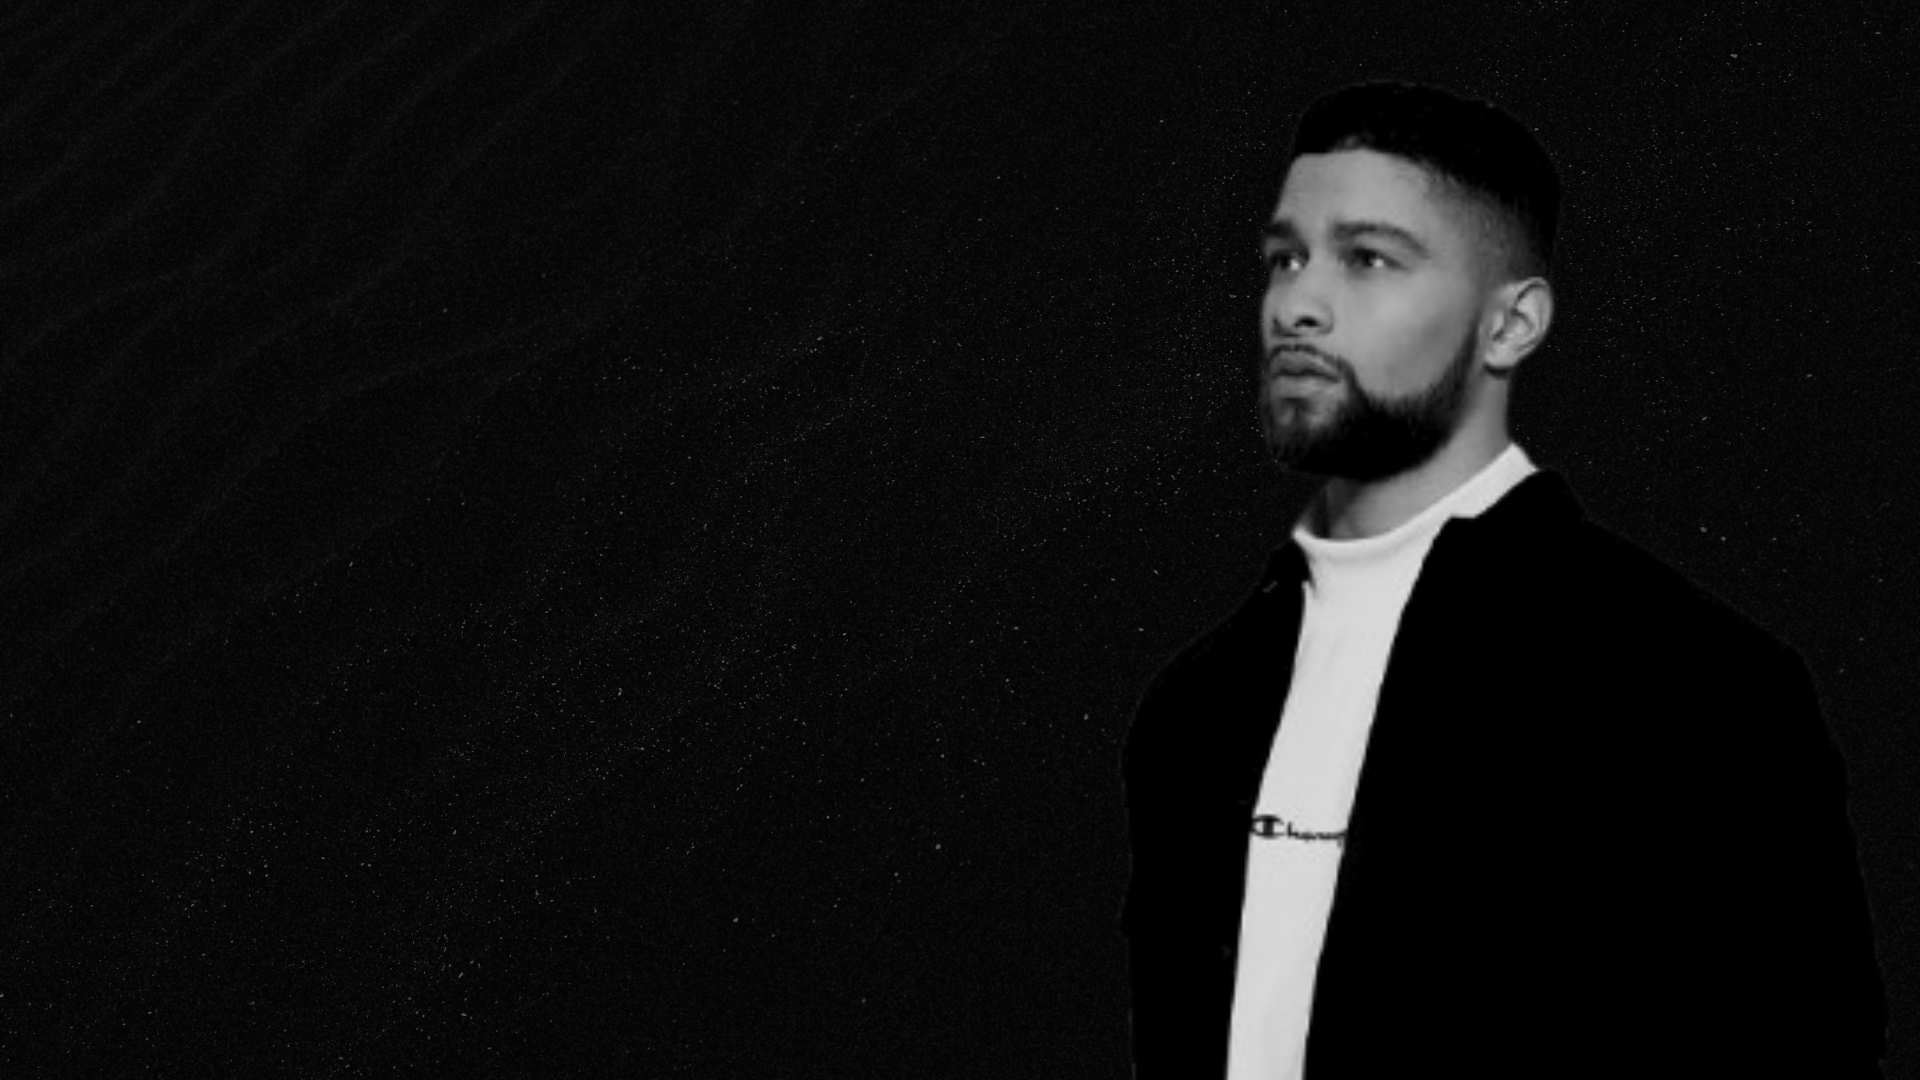
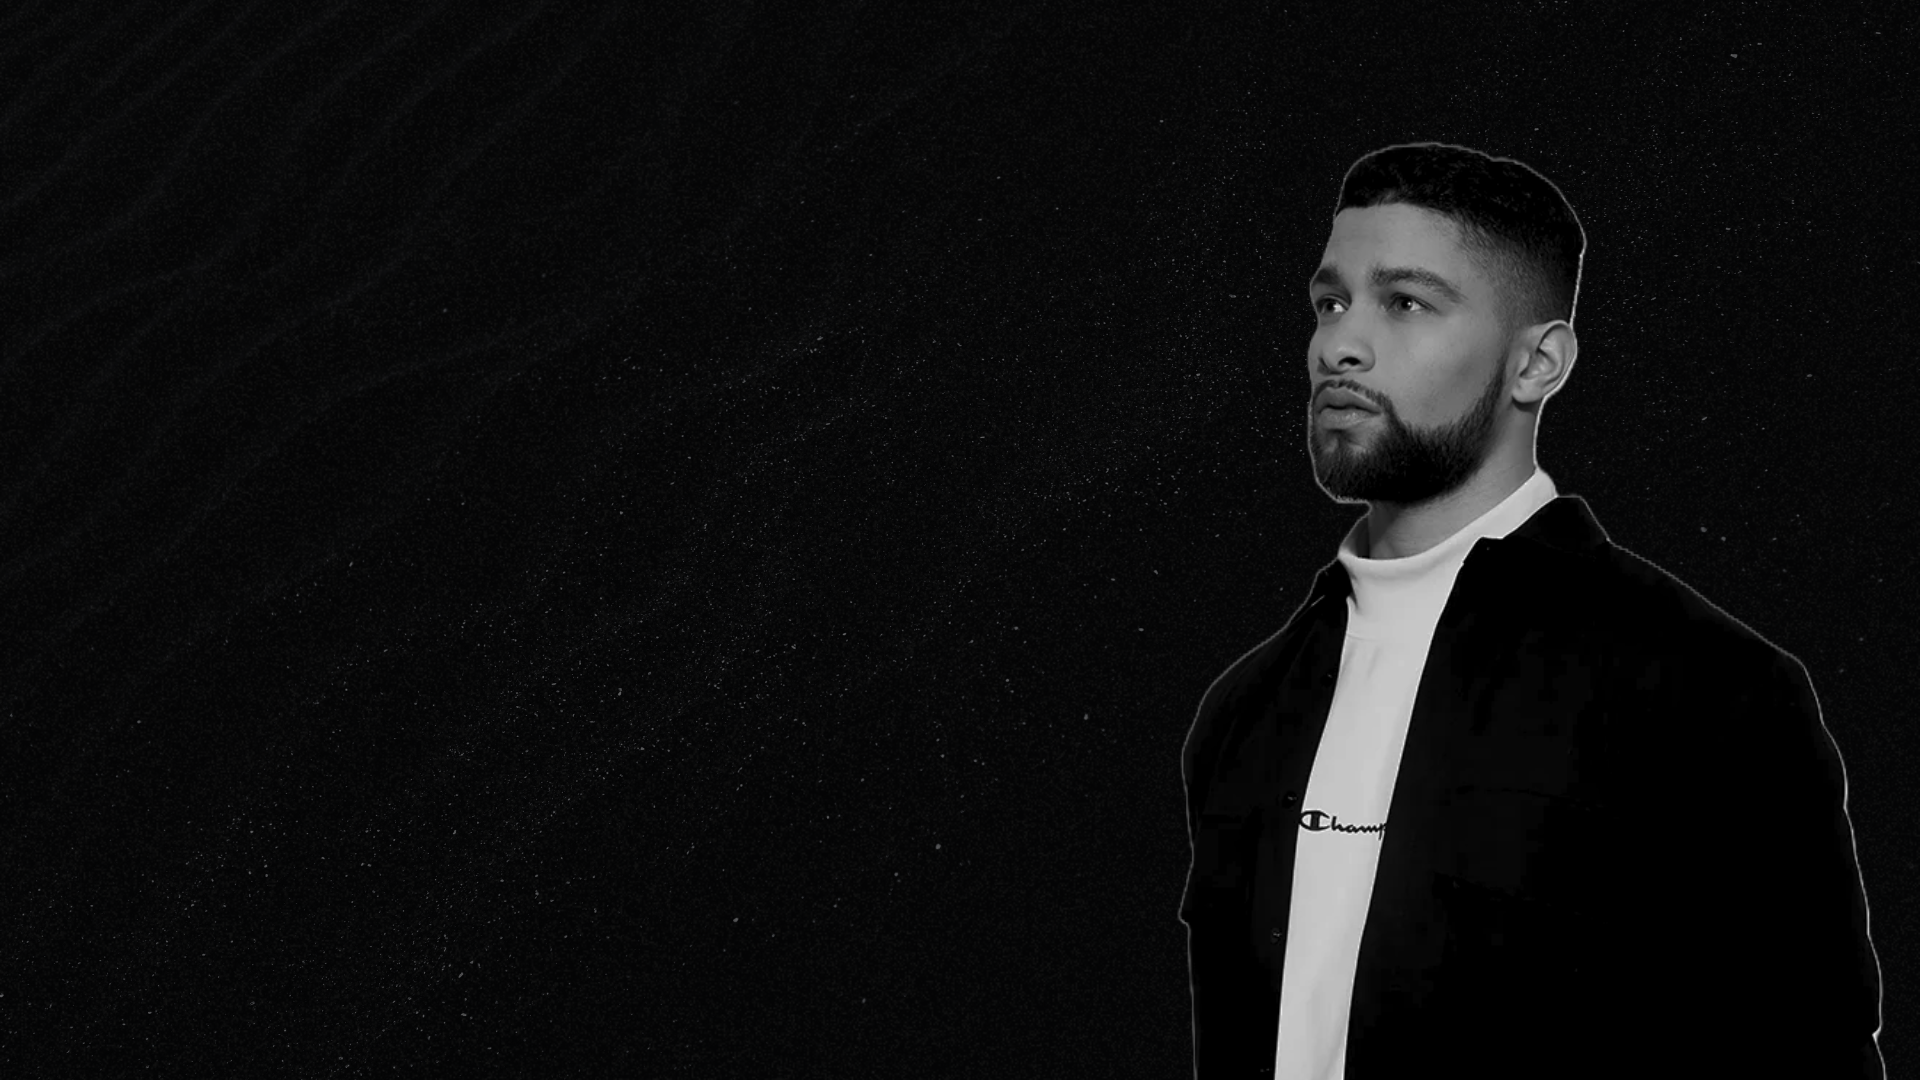
Final Changes for Initial Working Version:
- Added mailto button in header and contact section

- Uploaded higher quality main image

- Removed extra project cards

Changed region(s): [[0.625, 0.1222, 0.8438, 1.0], [0.9062, 0.5806, 0.9375, 0.6111], [0.875, 0.55, 0.9062, 0.5806]]

diff --git a/index.html b/index.html
@@ -49,14 +49,14 @@
       <a href="index.html" class="logo d-flex align-items-center">
         <!-- Uncomment the line below if you also wish to use an image logo -->
         <!-- <img src="assets/img/logo.png" alt=""> -->
-        <h1 class="sitename">Home</h1>
+        <!-- <h1 class="sitename">Home</h1> -->
       </a>
 
       <nav id="navmenu" class="navmenu">
         <ul>
-          <li><a href="index.html" class="active">About</a></li>
-          <li><a href="">Portfolio</a></li>
-          <li><a href="">Contact</a></li>
+          <!-- <li><a href="index.html" class="active">About</a></li> -->
+          <li><a href="#projects">Portfolio</a></li>
+          <li><a href="#footer">Contact</a></li>
         </ul>
         <i class="mobile-nav-toggle d-xl-none bi bi-list"></i>
       </nav>
@@ -81,9 +81,9 @@
         
         <div class="social-links mb-4">
           <!-- PLACEHOLDER FOR MAILTO BUTTON -->
-          <!-- <a href="#"><i class="bi bi-facebook"></i></a> -->
-          <a href="#"><i class="bi bi-github"></i></a>
-          <a href="#"><i class="bi bi-linkedin"></i></a>
+          <a href="mailto:daryoush.sehazadeh@gmail.com?subject=Hello&body=Reaching out"><i class="bi bi-envelope"></i></a>
+          <a href="https://github.com/DaryoushSehatzadeh" target="_blank"><i class="bi bi-github"></i></a>
+          <a href="https://www.linkedin.com/in/dariussehatzadeh/" target="_blank"><i class="bi bi-linkedin"></i></a>
         </div>
 
         <!-- WRITTEN BIO - NOT NEEDED FOR NOW -->
@@ -138,14 +138,14 @@
         </div>
 
         <!-- PROJECT 2:... -->
-        <div class="col-12 col-md-6 col-lg-4 mb-5">
+        <!-- <div class="col-12 col-md-6 col-lg-4 mb-5">
           <div class="card">Project 2</div>
-        </div>
+        </div> -->
 
         <!-- PROJECT 3:... -->
-        <div class="col-12 col-md-6 col-lg-4 mb-5">
+        <!-- <div class="col-12 col-md-6 col-lg-4 mb-5">
           <div class="card">Project 3</div>
-        </div>
+        </div> -->
       </div>
     </div>
   </section>
@@ -156,10 +156,9 @@
       <!-- <p>Et aut eum quis fuga eos sunt ipsa nihil. Labore corporis magni eligendi fuga maxime saepe commodi placeat.</p> -->
       <div class="social-links d-flex justify-content-center">
 
-        <!-- PLACEHOLDER FOR MAILTO BUTTON -->
-        <!-- <a href=""><i class="bi bi-instagram"></i></a> -->
-        <a href=""><i class="bi bi-github"></i></a>
-        <a href=""><i class="bi bi-linkedin"></i></a>
+        <a href="mailto:daryoush.sehazadeh@gmail.com?subject=Hello&body=Reaching out"><i class="bi bi-envelope"></i></a>
+        <a href="https://github.com/DaryoushSehatzadeh"><i class="bi bi-github"></i></a>
+        <a href="https://www.linkedin.com/in/dariussehatzadeh/"><i class="bi bi-linkedin"></i></a>
       </div>
       <div class="container">
         <div class="copyright">
